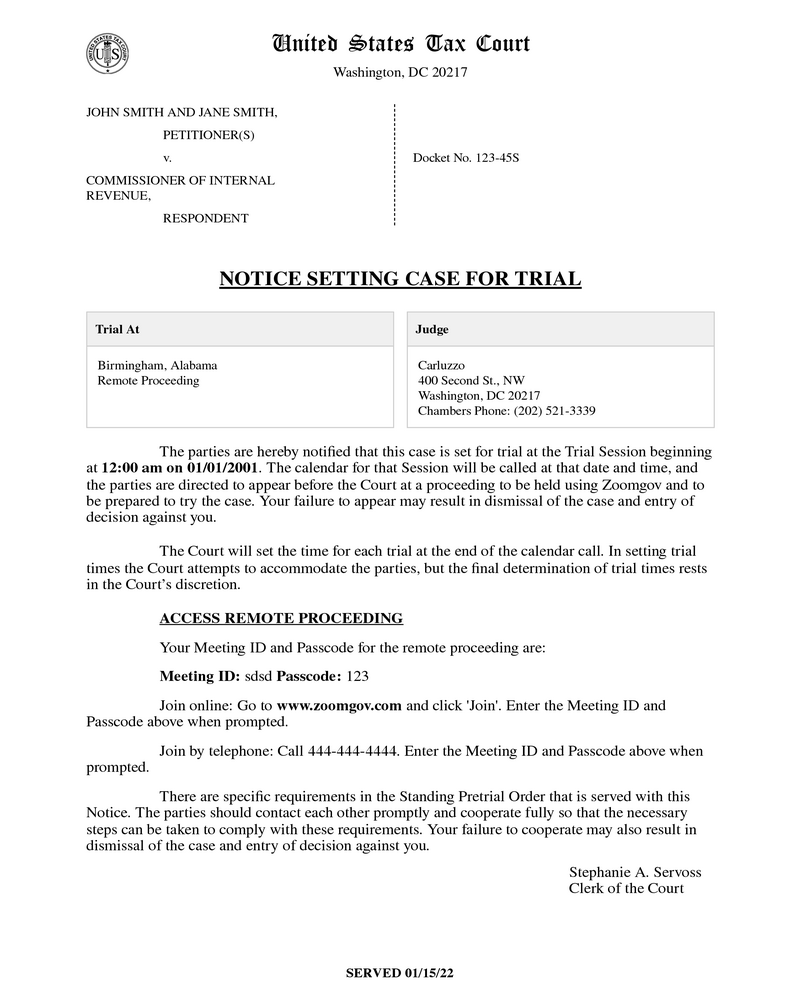
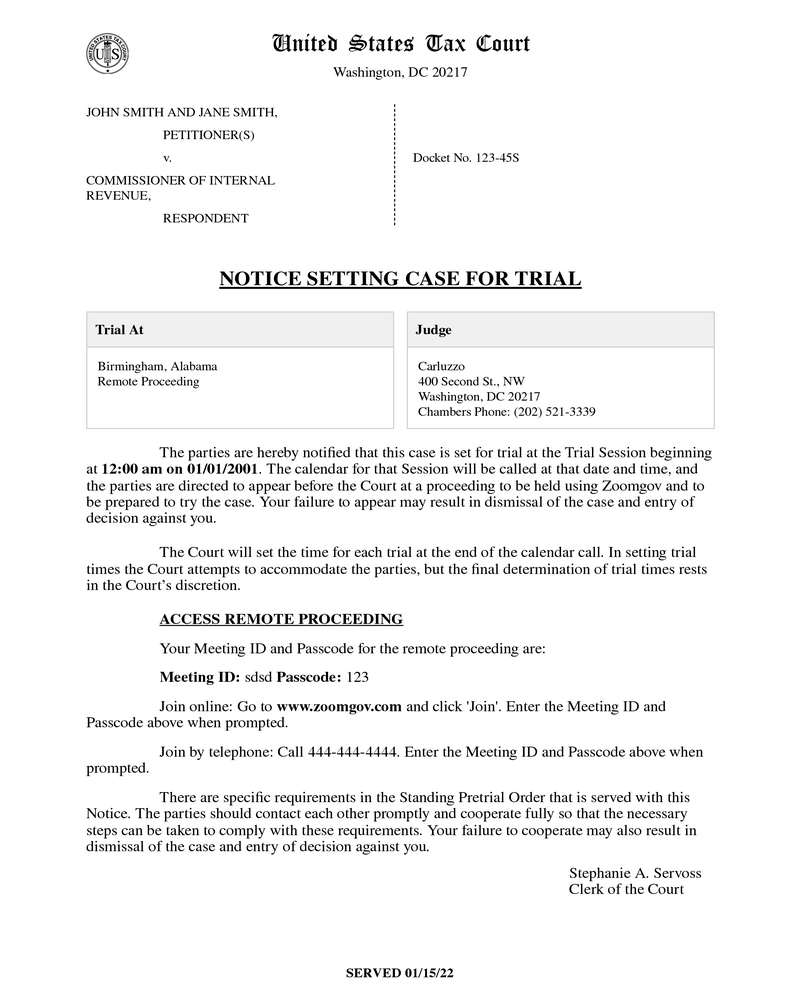
10076: spacing remote version

diff --git a/web-api/src/business/useCases/trialSessions/generateNoticeOfTrialIssuedInteractor.ts b/web-api/src/business/useCases/trialSessions/generateNoticeOfTrialIssuedInteractor.ts
@@ -12,7 +12,7 @@ import { getCaseCaptionMeta } from '@shared/business/utilities/getCaseCaptionMet
 import { getJudgeWithTitle } from '@web-api/business/utilities/getJudgeWithTitle';
 import { getTrialSessionById } from '@web-api/persistence/postgres/trialSessions/getTrialSessionById';
 import { getFeatureFlagValues } from '@web-api/persistence/postgres/featureFlag/getFeatureFlagValues';
-import { formatPhoneNumber } from '@shared/business/utilities/formatPhoneNumber';
+import { formatTrialNoticePhoneNumber } from '@shared/business/utilities/formatPhoneNumber';
 
 export type FormattedTrialInfoType = RawTrialSession & {
   formattedStartDate: string;
@@ -76,11 +76,13 @@ export const generateNoticeOfTrialIssuedInteractor = async (
   };
   const trialInfo: FormattedTrialInfoType = {
     ...trialSession,
-    chambersPhoneNumber: formatPhoneNumber(trialSession.chambersPhoneNumber),
+    chambersPhoneNumber: formatTrialNoticePhoneNumber(
+      trialSession.chambersPhoneNumber,
+    ),
     formattedJudge: trialSession.judge?.name || 'Not assigned',
     formattedStartDate,
     formattedStartTime,
-    joinPhoneNumber: formatPhoneNumber(trialSession.joinPhoneNumber),
+    joinPhoneNumber: formatTrialNoticePhoneNumber(trialSession.joinPhoneNumber),
   };
 
   if (trialSession.proceedingType === TRIAL_SESSION_PROCEEDING_TYPES.inPerson) {

diff --git a/shared/src/business/utilities/formatPhoneNumber.test.ts b/shared/src/business/utilities/formatPhoneNumber.test.ts
@@ -1,4 +1,7 @@
-import { formatPhoneNumber } from './formatPhoneNumber';
+import {
+  formatPhoneNumber,
+  formatTrialNoticePhoneNumber,
+} from './formatPhoneNumber';
 
 describe('formatPhoneNumber', () => {
   it('should return a formatted string with hyphens if the original string has 10 digits', () => {
@@ -38,6 +41,32 @@ describe('formatPhoneNumber', () => {
   it('should return undefined if nothing is passed in', () => {
     // @ts-expect-error
     const result = formatPhoneNumber();
+
+    expect(result).toBeUndefined();
+  });
+});
+
+describe('formatTrialNoticePhoneNumber', () => {
+  it('should return a formatted string with parentheses for 10 digits', () => {
+    const result = formatTrialNoticePhoneNumber('4444444444');
+
+    expect(result).toEqual('(444) 444-4444');
+  });
+
+  it('should reformat a hyphenated 10-digit phone number', () => {
+    const result = formatTrialNoticePhoneNumber('444-444-4444');
+
+    expect(result).toEqual('(444) 444-4444');
+  });
+
+  it('should return the original string if it is not 10 digits', () => {
+    const result = formatTrialNoticePhoneNumber('3333');
+
+    expect(result).toEqual('3333');
+  });
+
+  it('should return undefined if nothing is passed in', () => {
+    const result = formatTrialNoticePhoneNumber();
 
     expect(result).toBeUndefined();
   });

diff --git a/shared/src/business/utilities/formatPhoneNumber.ts b/shared/src/business/utilities/formatPhoneNumber.ts
@@ -14,3 +14,23 @@ export const formatPhoneNumber = function (phone) {
 
   return phone;
 };
+
+/**
+ * formats a 10-digit phone number for trial notices with area code in parentheses
+ *
+ * @param {string} phone the phone number to format
+ * @returns {string|void} the formatted string
+ */
+export const formatTrialNoticePhoneNumber = function (
+  phone?: string,
+): string | undefined {
+  if (!phone) return;
+
+  const digitsOnly = phone.replace(/\D/g, '');
+
+  if (digitsOnly.length === 10) {
+    return `(${digitsOnly.slice(0, 3)}) ${digitsOnly.slice(3, 6)}-${digitsOnly.slice(6)}`;
+  }
+
+  return phone;
+};

diff --git a/shared/src/business/utilities/documentGenerators/noticeOfTrialIssued.test.ts b/shared/src/business/utilities/documentGenerators/noticeOfTrialIssued.test.ts
@@ -20,7 +20,7 @@ describe('documentGenerators', () => {
             formattedJudge: 'Carluzzo',
             formattedStartDate: '01/01/2001',
             formattedStartTime: '12:00 am',
-            joinPhoneNumber: '444-444-4444',
+            joinPhoneNumber: '(444) 444-4444',
             meetingId: 'sdsd',
             password: '123',
             trialLocation: 'Birmingham, Alabama',

diff --git a/shared/src/business/utilities/pdfGenerator/documentTemplates/NoticeOfTrialIssued.tsx b/shared/src/business/utilities/pdfGenerator/documentTemplates/NoticeOfTrialIssued.tsx
@@ -65,7 +65,7 @@ export const NoticeOfTrialIssued = ({
         </p>
 
         <div className="notice-access-remote-section">
-          <p className="notice-body-indent text-underline text-bold">
+          <p className="notice-body-indent text-underline">
             ACCESS REMOTE PROCEEDING
           </p>
           <p className="notice-body-indent">

diff --git a/web-api/src/business/useCases/trialSessions/generateNoticeOfTrialIssuedInteractor.test.ts b/web-api/src/business/useCases/trialSessions/generateNoticeOfTrialIssuedInteractor.test.ts
@@ -104,8 +104,8 @@ describe('generateNoticeOfTrialIssuedInteractor', () => {
     ).toMatchObject({
       data: {
         trialInfo: {
-          chambersPhoneNumber: '202-521-3339',
-          joinPhoneNumber: '444-444-4444',
+          chambersPhoneNumber: '(202) 521-3339',
+          joinPhoneNumber: '(444) 444-4444',
         },
       },
     });

diff --git a/shared/src/business/utilities/htmlGenerator/documents/notice-of-trial-issued.scss b/shared/src/business/utilities/htmlGenerator/documents/notice-of-trial-issued.scss
@@ -105,7 +105,7 @@ body:has(#notice-of-trial-pdf) {
 
   .info-box-header {
     padding: 6pt;
-    font-size: 10pt;
+    font-size: 12pt;
   }
 
   .info-box-content {
